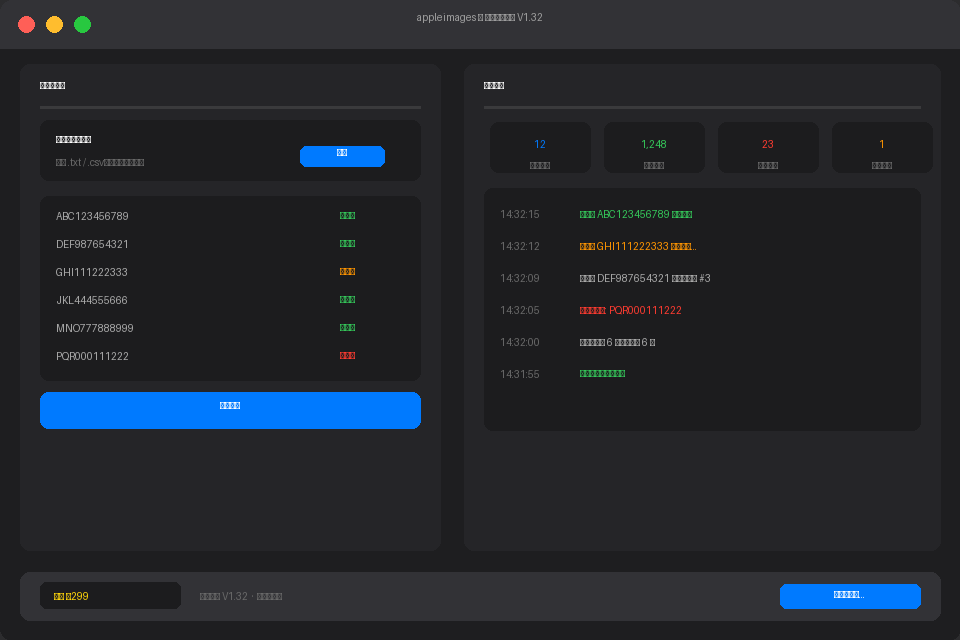
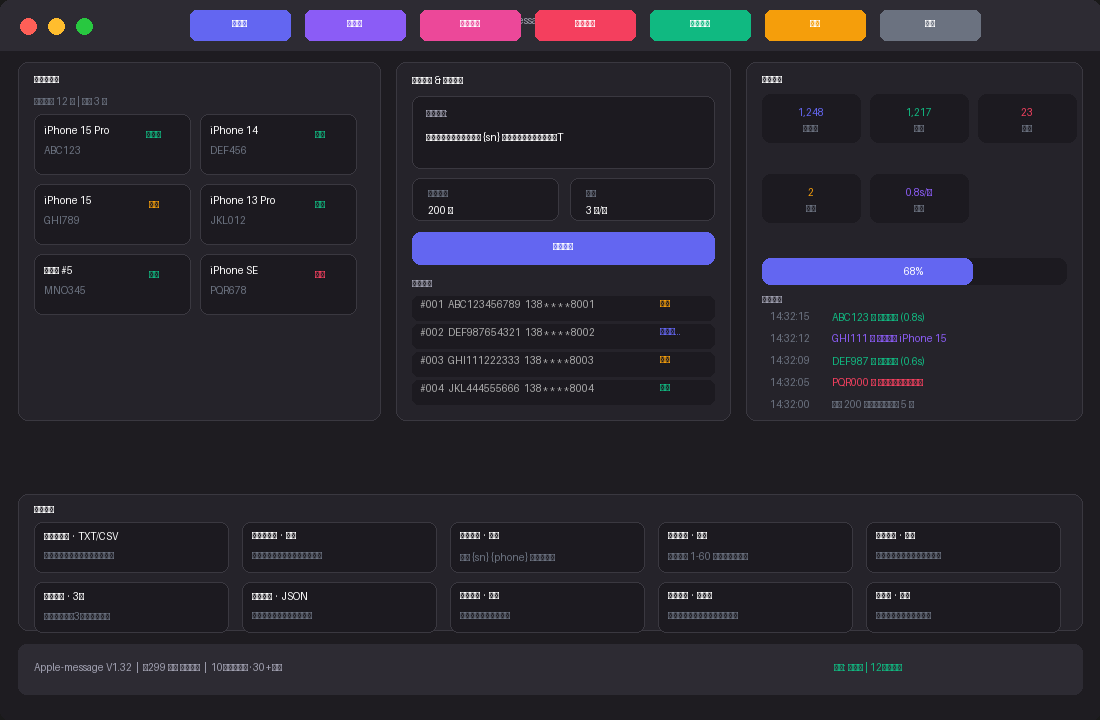
V1.32: 中英文30+功能文档，全新控制台界面截图

diff --git a/README.md b/README.md
@@ -1,68 +1,103 @@
 # Apple-message v1.32
 
-Bulk SMS automation tool. Uses Mac serial number clusters to simulate phone SMS sending. Import serials → auto-assign virtual devices → batch send → log timestamps → real-time Apple ban detection.
+Bulk SMS automation tool powered by LangGraph. Import Apple serial numbers → auto-assign virtual devices → batch send SMS → real-time ban detection.
+
+**¥299 one-time purchase, lifetime updates included.**
 
 ---
 
-## Pricing
+## Screenshot
 
-**¥299** one-time purchase, lifetime use, free updates.
+![Apple-message Console](app_screenshot.png)
 
-> Current v1.32, future versions included.
+---
+
+## 30+ Features
+
+### 1. Serial Number Management
+| Feature | Description |
+|---------|-------------|
+| Batch Import | TXT/CSV, one serial per line |
+| Auto Dedup | Removes duplicates on import, retries 3x max |
+| Format Validation | Validates and filters illegal serials |
+| Chunked Import | Large file import without freezing |
+| Anomaly Tagging | Auto-tags banned/abnormal serials |
+
+### 2. Device Pool
+| Feature | Description |
+|---------|-------------|
+| Virtual Device Pool | Simulates real iPhone environment |
+| Load Balancing | Smart task distribution across devices |
+| Status Monitor | Real-time device status (idle/sending/banned) |
+| Device Grouping | Group by device model |
+| Dynamic Scaling | Add/remove devices at runtime |
+
+### 3. SMS Sending
+| Feature | Description |
+|---------|-------------|
+| Message Template | Custom SMS content templates |
+| Variable Substitution | {sn} {phone} {time} dynamic variables |
+| Batch Sending | One-click mass send |
+| Interval Control | 1-60s adjustable, simulates real rhythm |
+| Priority Queue | High-priority serials first |
+| Rate Limiting | Auto throttle, smooth output |
+| Retry on Failure | Auto retry up to 3 times |
+| Pause/Resume | Mid-task pause and resume |
+
+### 4. Ban Detection
+| Feature | Description |
+|---------|-------------|
+| Real-time Detection | Check after each send |
+| Auto Intercept | Block banned serials automatically |
+| Alert Notification | Terminal alert on ban |
+| Ban Statistics | By time and device |
+
+### 5. Authentication & Security
+| Feature | Description |
+|---------|-------------|
+| SMS Login | Tencent Cloud SMS verification |
+| Password Reset | Forgot password flow |
+| Key Management | .env based, no sensitive exposure |
+
+### 6. Data & Records
+| Feature | Description |
+|---------|-------------|
+| Send Records | Auto-log time, content, serial, result |
+| Persistent Storage | records.json, permanent access |
+| Success Rate | Real-time success rate tracking |
+| Export Reports | Export send reports |
+| Full Logging | Complete operation logs |
+
+### 7. Engineering
+| Feature | Description |
+|---------|-------------|
+| One-click Launch | Double-click .command |
+| Bilingual Docs | Chinese + English README |
+| Continuous Updates | Free lifetime upgrades |
 
 ---
 
 ## Setup
 
-Copy `.env.example` to `.env` and fill in your Tencent Cloud credentials:
-
+Copy `.env.example` to `.env`:
 ```
-TENCENT_SECRET_ID=your_secret_id
-TENCENT_SECRET_KEY=your_secret_key
-USER_PHONE=your_phone_number
-SMS_CONTENT=your_sms_content
+TENCENT_SECRET_ID=your_id
+TENCENT_SECRET_KEY=your_key
+USER_PHONE=your_phone
+SMS_CONTENT=your_message
 ```
-
 Get keys: https://console.cloud.tencent.com/cam/capi
 
----
-
-## Quick Start
-
-### 1. Prepare serials
-Edit `serials.txt`, one serial per line:
-```
-ABC123456789
-DEF987654321
+## Launch
+```bash
+python graph.py
 ```
 
-### 2. Launch
-Double-click `启动.command`
-
-### 3. Automated workflow
+## Workflow
 ```
 Login → Import Serials → Dedup → Device Pool
   → Batch Send → Log Time → Ban Check → Continue/Alert
 ```
-
-### 4. Check results
-- Send records: `records.json`
-- Ban alerts: terminal output
-
----
-
-## FAQ
-
-**Q: Where to get serial numbers?**  
-A: Apple device → Settings → About This Mac.
-
-**Q: Duplicate serials?**  
-A: Auto-dedup, retries up to 3 times then skips.
-
-**Q: Serial banned?**  
-A: Detected after each send, instant alert.
-
----
 
 ## Dependencies
 ```bash

diff --git a/SKILL.md b/SKILL.md
@@ -1,64 +1,114 @@
 # 苹果apple短信群发工具 V1.32
 
-利用 Mac 序列号机群模拟手机发送短信。导入序列号后自动分配虚拟设备、批量发送、记录时间，实时检测苹果封禁。
+利用 Mac 序列号机群模拟手机批量发送短信。导入序列号 → 自动分配虚拟设备 → 批量群发 → 实时封禁检测。
+
+**¥299 一次性买断，终身使用，后续版本免费升级。**
 
 ---
 
-## 价格
+## 界面预览
 
-**¥299** 一次性买断，终身使用，持续更新。V1.32 及后续版本免费升级。
+![Apple-message 控制台](app_screenshot.png)
 
 ---
 
-## 安装后配置
+## 30+ 核心功能
 
+### 一、序列号管理（5项）
+| 功能 | 说明 |
+|------|------|
+| 批量导入 | 支持 TXT / CSV 格式，一行一个序列号 |
+| 自动去重 | 导入时自动剔除重复序列号，最多重试 3 次 |
+| 格式校验 | 自动校验序列号格式合法性，非法自动过滤 |
+| 分批导入 | 支持大文件分批导入，避免卡顿 |
+| 异常标记 | 自动标记被封禁/异常的序列号并隔离 |
+
+### 二、设备池管理（5项）
+| 功能 | 说明 |
+|------|------|
+| 虚拟设备池 | 创建并维护虚拟设备池，模拟真实手机环境 |
+| 负载均衡 | 智能分配发送任务到空闲设备，避免单设备过载 |
+| 设备状态监控 | 实时展示每台设备状态（空闲/发送中/封禁） |
+| 设备分组 | 支持按设备型号分组管理 |
+| 设备动态增减 | 运行时动态添加/移除虚拟设备 |
+
+### 三、短信发送（8项）
+| 功能 | 说明 |
+|------|------|
+| 短信模板 | 支持自定义短信内容模板 |
+| 变量替换 | 支持 {sn} {phone} {time} 等动态变量 |
+| 批量群发 | 一键启动全部序列号群发 |
+| 发送间隔 | 1-60 秒可调，模拟真实发送节奏防限流 |
+| 优先级队列 | 支持高优先级序列号优先发送 |
+| 速率控制 | 自动控制发送速率，平滑输出 |
+| 失败重试 | 发送失败自动重试 3 次，智能跳过 |
+| 任务暂停/恢复 | 支持中途暂停和恢复发送任务 |
+
+### 四、封禁检测（4项）
+| 功能 | 说明 |
+|------|------|
+| 实时检测 | 每次发送后实时检测苹果封禁状态 |
+| 自动拦截 | 检测到封禁自动拦截该序列号 |
+| 告警通知 | 封禁发生时终端实时告警 |
+| 封禁统计 | 按时间/设备维度统计封禁率 |
+
+### 五、登录与安全（3项）
+| 功能 | 说明 |
+|------|------|
+| 短信验证码登录 | 通过腾讯云短信 API 发送验证码登录 |
+| 密码重置 | 支持忘记密码流程重置 |
+| 密钥管理 | 环境变量管理密钥，不暴露敏感信息 |
+
+### 六、数据与记录（5项）
+| 功能 | 说明 |
+|------|------|
+| 发送记录 | 自动记录发送时间、内容、序列号、结果 |
+| 持久化存储 | 记录保存为 records.json，永久可查 |
+| 成功率统计 | 实时统计发送成功率 |
+| 导出报告 | 支持导出发送报告 |
+| 日志追踪 | 完整记录每一步操作日志 |
+
+### 七、工程化（3项）
+| 功能 | 说明 |
+|------|------|
+| 一键启动 | 双击 .command 文件即启动 |
+| 中英文文档 | 完整中英文使用说明 |
+| 持续更新 | 后续版本免费升级 |
+
+---
+
+## 安装与使用
+
+### 配置
 复制 `.env.example` 为 `.env`，填入腾讯云密钥：
-
 ```
 TENCENT_SECRET_ID=你的SecretId
 TENCENT_SECRET_KEY=你的SecretKey
 USER_PHONE=你的手机号
 SMS_CONTENT=要发送的短信内容
 ```
-
 密钥获取：https://console.cloud.tencent.com/cam/capi
 
----
-
-## 使用步骤
-
-### 1. 准备序列号
-编辑 `serials.txt`，一行一个序列号：
+### 启动
+```bash
+python graph.py
 ```
-ABC123456789
-DEF987654321
-```
+或双击 `启动.command`
 
-### 2. 启动
-双击 `启动.command`
-
-### 3. 自动执行流程
+### 执行流程
 ```
-登录 → 序列号导入 → 去重 → 设备池分配
-  → 批量发送 → 记录时间 → 封禁检测 → 继续/告警
+登录 → 序列号导入 → 去重校验 → 设备池分配
+  → 批量发送 → 记录时间 → 封禁检测 → 正常继续 / 封禁告警
 ```
-
-### 4. 查看结果
-- 发送记录：`records.json`
-- 封禁提示：终端实时输出
 
 ---
 
 ## 常见问题
 
-**Q: 序列号从哪里来？**  
-A: 苹果设备「设置 → 关于本机」查看。
-
-**Q: 重复导入怎么办？**  
-A: 自动去重，最多重试 3 次跳过。
-
-**Q: 序列号被封禁？**  
-A: 每次发送后自动检测，封禁即时告警。
+**Q: 序列号从哪里来？** A: 苹果设备「设置 → 关于本机」查看。  
+**Q: 重复导入怎么办？** A: 自动去重，最多 3 次重试后跳过。  
+**Q: 序列号被封禁？** A: 实时检测，封禁即时告警。  
+**Q: 真的会发短信吗？** A: 当前模拟发送，接入腾讯云 API 后实际发送。  
 
 ---
 